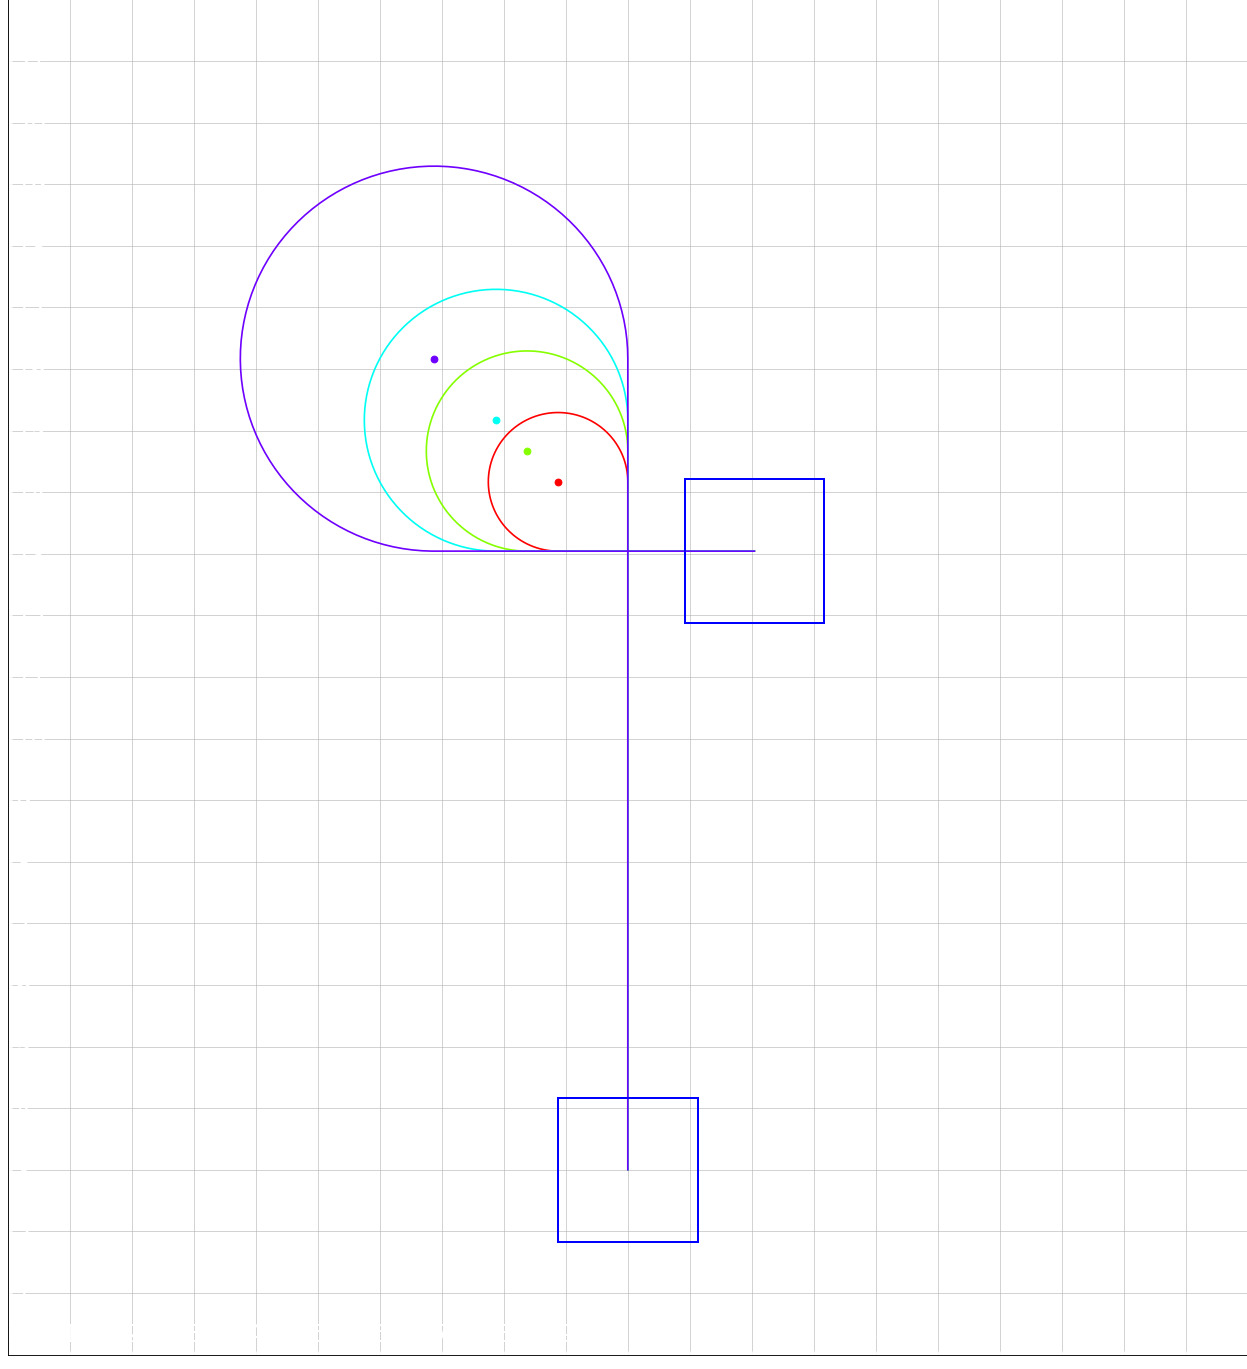
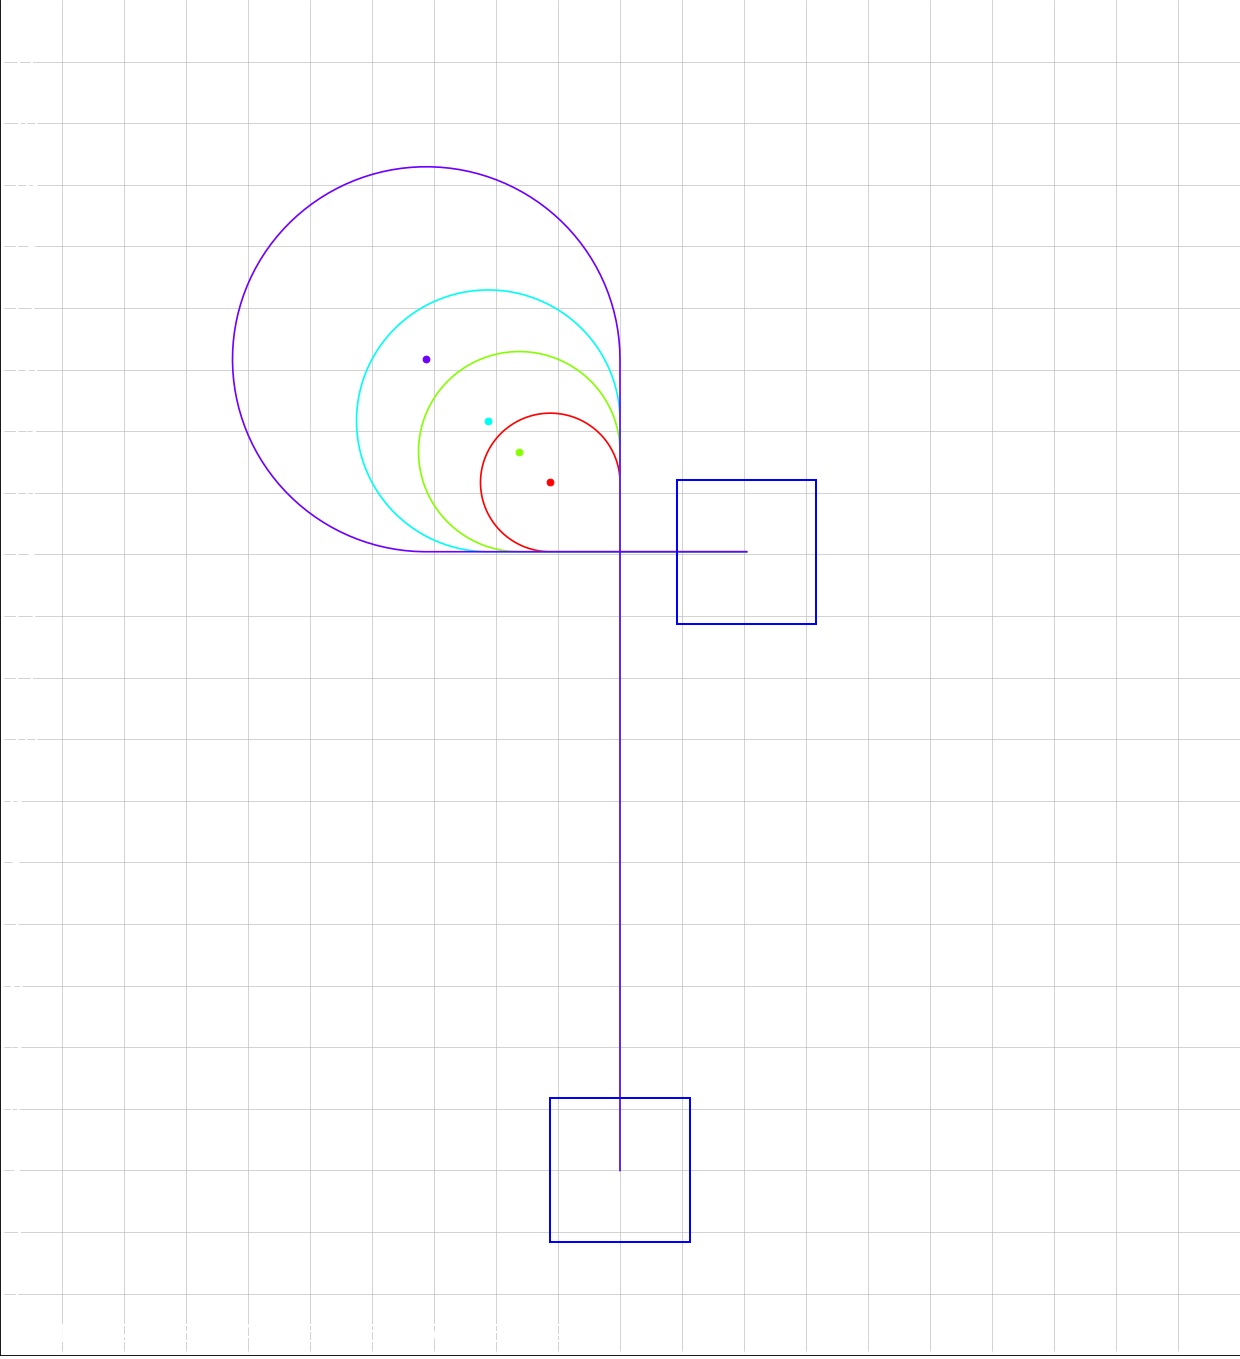
Use units library, use double, fix indent and format precisiontestfieldmap.py

diff --git a/src/main/java/frc/robot/commands/TestPrecisionCommand.java b/src/main/java/frc/robot/commands/TestPrecisionCommand.java
@@ -1,7 +1,6 @@
 package frc.robot.commands;
 
 import java.util.ArrayList;
-import java.util.List;
 
 import edu.wpi.first.networktables.EntryListenerFlags;
 import edu.wpi.first.networktables.EntryNotification;
@@ -10,13 +9,13 @@ import edu.wpi.first.wpilibj.controller.RamseteController;
 import edu.wpi.first.wpilibj.controller.SimpleMotorFeedforward;
 import edu.wpi.first.wpilibj.geometry.Pose2d;
 import edu.wpi.first.wpilibj.geometry.Rotation2d;
-import edu.wpi.first.wpilibj.geometry.Transform2d;
 import edu.wpi.first.wpilibj.geometry.Translation2d;
 import edu.wpi.first.wpilibj.smartdashboard.SmartDashboard;
 import edu.wpi.first.wpilibj.trajectory.Trajectory;
 import edu.wpi.first.wpilibj.trajectory.TrajectoryConfig;
 import edu.wpi.first.wpilibj.trajectory.TrajectoryGenerator;
 import edu.wpi.first.wpilibj.trajectory.constraint.DifferentialDriveVoltageConstraint;
+import edu.wpi.first.wpilibj.util.Units;
 import edu.wpi.first.wpilibj2.command.CommandBase;
 import edu.wpi.first.wpilibj2.command.RamseteCommand;
 import edu.wpi.first.wpilibj2.command.SequentialCommandGroup;
@@ -25,36 +24,34 @@ import frc.robot.subsystems.DriveTrain;
 
 
 public class TestPrecisionCommand extends CommandBase implements AutoCommandInterface{
-    static Pose2d simulationInitialPose=new Pose2d(feetToMeters(10),feetToMeters(3),new Rotation2d(Math.PI/2));
-    static float feetRunway=10;
-    static float feetRobotWidth=27.f/12.f;
-    static float feetRobotHeight =28.f/12.f;
-    static float maxSpeed= (float) Constants.kMaxSpeed;
-    static float maxAccel= (float) Constants.kMaxAcceleration;
-    static float maxVoltage=10;
-    static float innerRadiusFeet=1;
+    static Pose2d simulationInitialPose=new Pose2d(Units.feetToMeters(10),Units.feetToMeters(3),new Rotation2d(Math.PI/2));
+    static double feetRunway=10;
+    static double feetRobotWidth=27.f/12.f;
+    static double feetRobotHeight =28.f/12.f;
+    static double maxSpeed= Constants.kMaxSpeed;
+    static double maxAccel=  Constants.kMaxAcceleration;
+    static double maxVoltage=10;
+    static double innerRadiusFeet=1;
     DriveTrain robotDrive;
-    SequentialCommandGroup  command;
+    SequentialCommandGroup command;
 
-    static float feetToMeters(float feet){
-        return((float)(feet*12*Constants.inchToMetersConversionFactor));
-    }
-    static ArrayList<Translation2d> generatePath(float innerRadiusFeet){
+    
+    static ArrayList<Translation2d> generatePath(double innerRadiusFeet){
         ArrayList<Translation2d> path=new ArrayList<>();
-        Translation2d turnEntry=simulationInitialPose.getTranslation().plus(new Translation2d(0,feetToMeters(feetRunway)));
+        Translation2d turnEntry=simulationInitialPose.getTranslation().plus(new Translation2d(0,Units.feetToMeters(feetRunway)));
         path.add(turnEntry);
 
-        Translation2d turnEntryExitTopLeft=turnEntry.plus(new Translation2d(-feetToMeters(feetRobotWidth)/2,feetToMeters(feetRobotHeight)/2));
-        Translation2d turnCenter=turnEntryExitTopLeft.plus(new Translation2d(-feetToMeters(innerRadiusFeet),feetToMeters(innerRadiusFeet)));
-        float radiusFeet=innerRadiusFeet+feetRobotWidth/2;
-        float radius=feetToMeters(radiusFeet);
+        Translation2d turnEntryExitTopLeft=turnEntry.plus(new Translation2d(-Units.feetToMeters(feetRobotWidth)/2,Units.feetToMeters(feetRobotHeight)/2));
+        Translation2d turnCenter=turnEntryExitTopLeft.plus(new Translation2d(-Units.feetToMeters(innerRadiusFeet),Units.feetToMeters(innerRadiusFeet)));
+        double radiusFeet=innerRadiusFeet+feetRobotWidth/2;
+        double radius=Units.feetToMeters(radiusFeet);
 
-        for(float theta=.5f;theta<=Math.PI*1.5-.1;theta+=.5){
+        for(double theta=.5f;theta<=Math.PI*1.5-.1;theta+=.5){
             Translation2d turnOffset=new Translation2d(radius*Math.cos(theta),radius*Math.sin(theta));
             Translation2d turnPosition=turnCenter.plus(turnOffset);
             path.add(turnPosition);
         }
-        Translation2d turnExit=turnEntryExitTopLeft.plus(new Translation2d(feetToMeters(feetRobotHeight)/2,-feetToMeters(feetRobotWidth)/2));
+        Translation2d turnExit=turnEntryExitTopLeft.plus(new Translation2d(Units.feetToMeters(feetRobotHeight)/2,-Units.feetToMeters(feetRobotWidth)/2));
         path.add(turnExit);
         
         return path;
@@ -78,7 +75,7 @@ public class TestPrecisionCommand extends CommandBase implements AutoCommandInte
     }
     @Override
     public void initialize() {
-        robotDrive.resetOdometry(simulationInitialPose);
+        robotDrive.setPose(simulationInitialPose);
         var autoVoltageConstraint =
             new DifferentialDriveVoltageConstraint(
                 new SimpleMotorFeedforward(Constants.ksVolts,
@@ -88,16 +85,14 @@ public class TestPrecisionCommand extends CommandBase implements AutoCommandInte
                 maxVoltage);
         
         TrajectoryConfig config =
-            new TrajectoryConfig(maxSpeed,
-                                 maxAccel)
+            new TrajectoryConfig(maxSpeed, maxAccel)
                 .setKinematics(Constants.kDriveKinematics)
                 .addConstraint(autoVoltageConstraint);
             
         ArrayList<Translation2d> path=generatePath(innerRadiusFeet);
-        Pose2d finish=new Pose2d(path.get(path.size()-1).plus(new Translation2d(feetToMeters(2), 0)),new Rotation2d(0));
+        Pose2d finish=new Pose2d(path.get(path.size()-1).plus(new Translation2d(Units.feetToMeters(2), 0)),new Rotation2d(0));
 
         Trajectory trajectory = TrajectoryGenerator.generateTrajectory(
-            // Start at the origin facing the +X direction
             simulationInitialPose,
             path,
             finish,
@@ -120,24 +115,23 @@ public class TestPrecisionCommand extends CommandBase implements AutoCommandInte
             robotDrive::tankDriveVolts,
             robotDrive
         );
-        command= ramseteCommand.andThen(() -> robotDrive.tankDriveVolts(0, 0));
+        command = ramseteCommand.andThen(() -> robotDrive.tankDriveVolts(0, 0));
         command.initialize();
-      }
-      @Override
-      public void execute() {
-          command.execute();
-      }
-      @Override
-      public void end(boolean interrupted) {
-
-          command.end(interrupted);
-      }
-      @Override
-      public boolean isFinished() {
-          return command.isFinished();
-      }
-      @Override
-      public Pose2d getInitialPose() {
-          return simulationInitialPose;
-      }
+    }
+    @Override
+    public void execute() {
+        command.execute();
+    }
+    @Override
+    public void end(boolean interrupted) {
+        command.end(interrupted);
+    }
+    @Override
+    public boolean isFinished() {
+        return command.isFinished();
+    }
+    @Override
+    public Pose2d getInitialPose() {
+        return simulationInitialPose;
+    }
 }

diff --git a/precisiontestfieldmap.py b/precisiontestfieldmap.py
@@ -9,24 +9,19 @@ from matplotlib.ticker import MaxNLocator
 
 import random
 
-
-
-
 def feetToMeter(feet):
     return(0.3048*feet)
 def meterToFeet(meter):
     return(3.28084*meter)
 
-
 field_width=20
 field_height=22
 
-
-COLOR = 'white'
-plt.rcParams['text.color'] = COLOR
-plt.rcParams['axes.labelcolor'] = COLOR
-plt.rcParams['xtick.color'] = COLOR
-plt.rcParams['ytick.color'] = COLOR
+foreground_color = 'white'
+plt.rcParams['text.color'] = foreground_color
+plt.rcParams['axes.labelcolor'] = foreground_color
+plt.rcParams['xtick.color'] = foreground_color
+plt.rcParams['ytick.color'] = foreground_color
 
 plt.rcParams['axes.facecolor'] = 'black'
 plt.rcParams.update({'font.size': 22})
@@ -43,16 +38,14 @@ ax.spines['bottom'].set_color('none')
 ax.xaxis.set_ticks_position('top')
 ax.yaxis.set_ticks_position('right')
 
-
-
 ax.grid(linestyle='-', linewidth='0.5')
 
-plt.axis([0, field_width, 0, field_height])
+plt.axis([0, field_width, 0, field_height]) 
 ax.yaxis.set_major_locator(MaxNLocator(integer=True))
 ax.xaxis.set_major_locator(MaxNLocator(integer=True))
 
-ax.set_xticks(np.arange(0, field_width, 1))
-ax.set_yticks(np.arange(0, field_height, 1))
+ax.set_xticks(np.arange(1, field_width, 1))# do not draw 0
+ax.set_yticks(np.arange(1, field_height, 1))
 
 def rect(x1,y1,x2,y2,style):
     plt.plot([x1,x2],[y1,y1],style)
@@ -64,8 +57,6 @@ def line(x1,y1,x2,y2):
     plt.plot([x1,x2],[y1,y2],style)
 
 def robotCurve(inner_radius,color):
-    
-
     curve=[]
     start=np.array((10,3))
     curve=[start]
@@ -106,7 +97,7 @@ robotCurve(2,cmap(3))
 
 plt.savefig("fieldmap.png", bbox_inches='tight', pad_inches=0, dpi=80, transparent=True)
 
-print("field width: "+str(feetToMeter(field_width))+" height: "+str(feetToMeter(field_height)))
-plt.show()
+print("Field width: "+str(feetToMeter(field_width))+" height: "+str(feetToMeter(field_height)))
+print("Robot width: "+str(feetToMeter(robot_width))+" height: "+str(feetToMeter(robot_height)))
 
-print("robot width: "+str(feetToMeter(robot_width))+" height: "+str(feetToMeter(robot_height)))
+plt.show()
